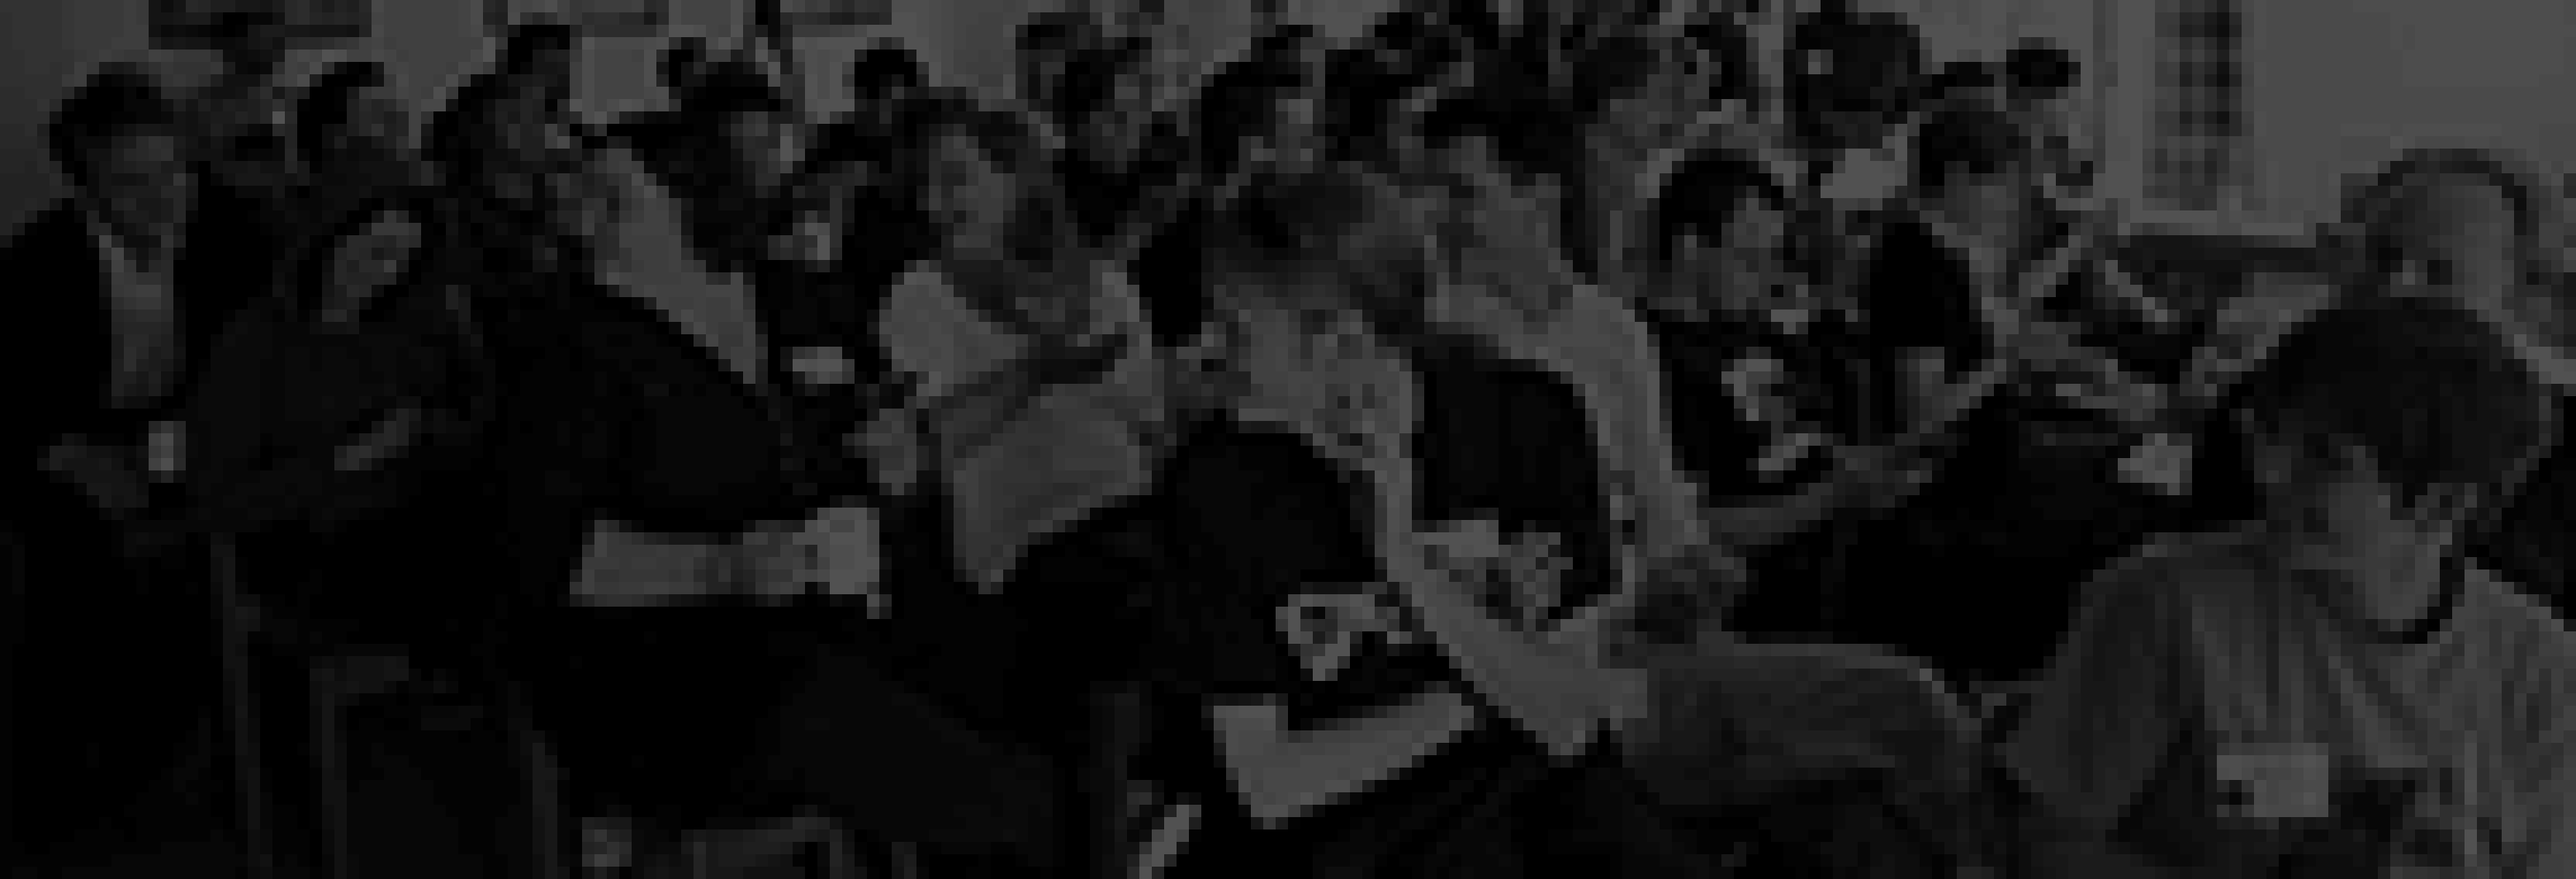
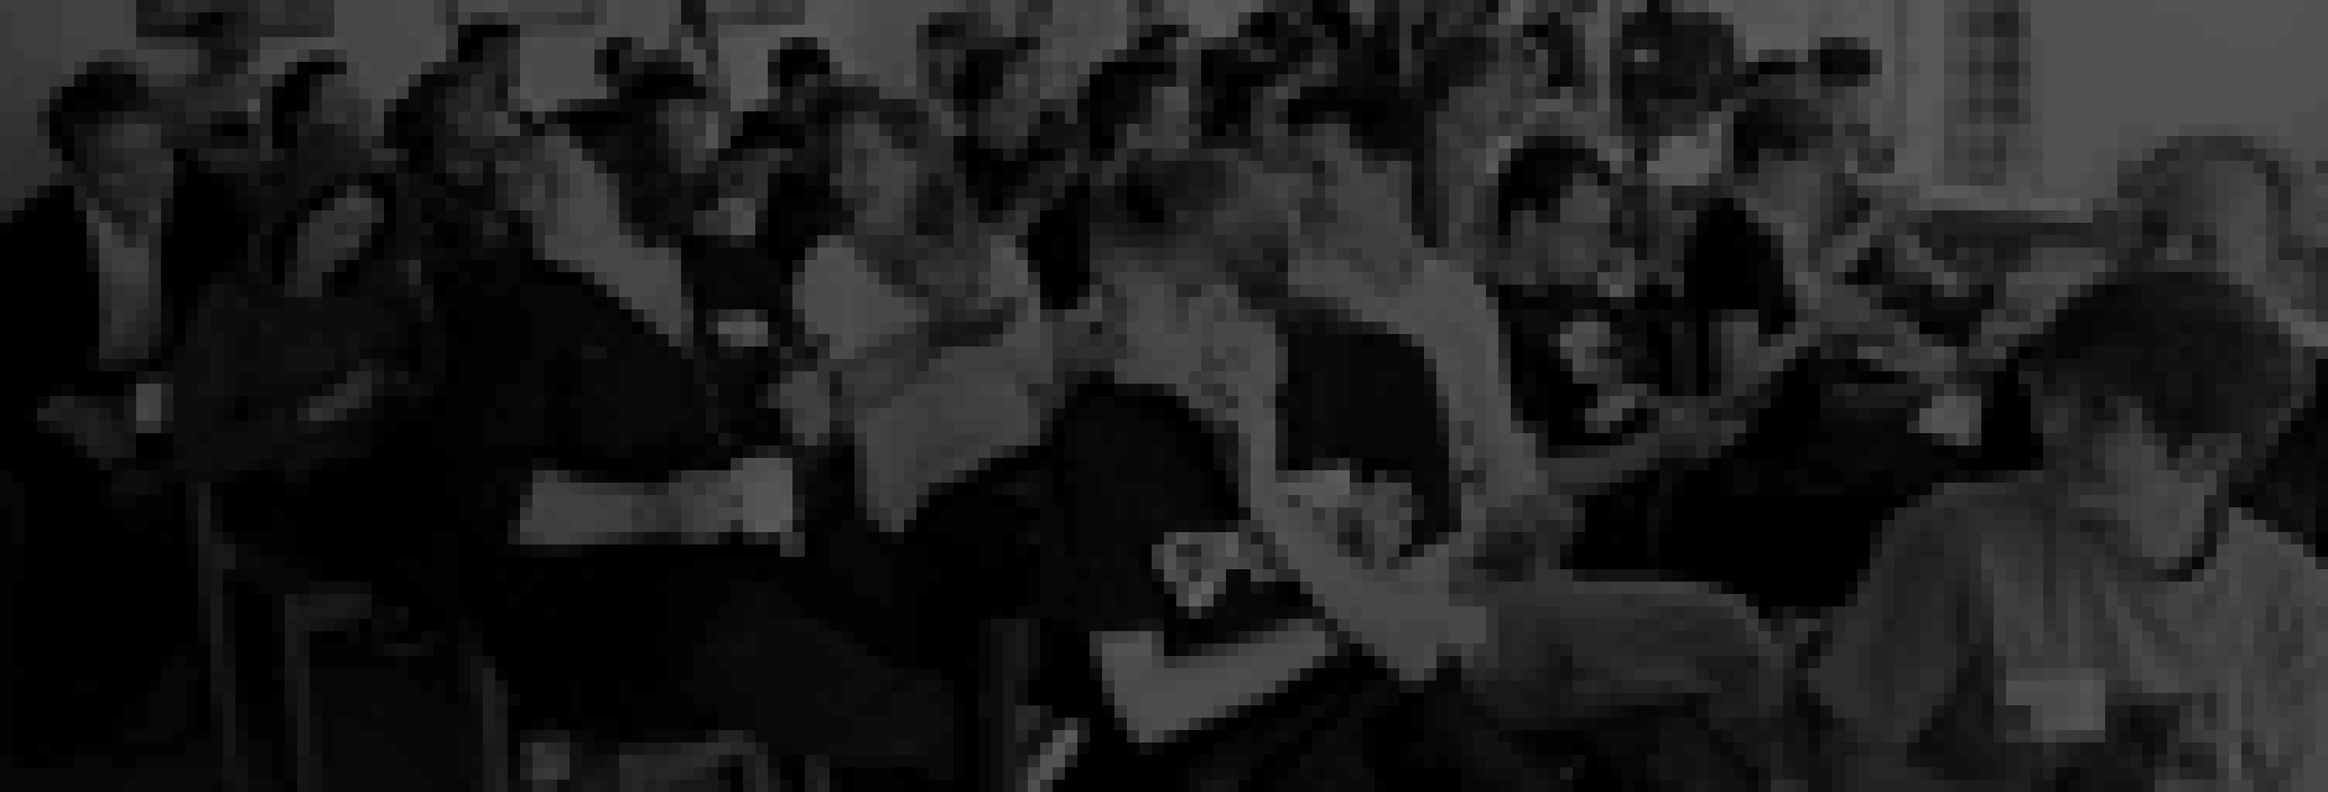
Fancy canvas header image
Re-did the non-JS fallback image while I was at it.

diff --git a/src/site/js/om14.js b/src/site/js/om14.js
@@ -1,0 +1,62 @@
+jQuery(function ($) {
+	"use strict";
+
+	var $header = $("#header");
+
+	// Inspired by <http://stackoverflow.com/a/19129822/417040>, Ken Fyrstenberg Nilsen, Abdias Software, CC3.0-attribute
+	var om14pixel = function ($container, src, px) {
+		// Create a canvas.
+		var $canvas = $("<canvas>");
+		var canvas = $canvas.get(0);
+		var ctx = canvas.getContext("2d"), img = new Image(), loaded = false;
+		// Width and height of the original JPEG.
+		var imgW = 0, imgH = 0;
+		var drawCanvas = function () {
+			if (!loaded) {
+				// Do nothing if the image is not available yet. (Can happen if resizing before loading is complete.)
+				return;
+			}
+			// The width and height of the container.
+			var contW = $container.innerWidth(), contH = $container.innerHeight();
+			// How large of an area (px) does the _small_ image need to cover?
+			var coverW = Math.ceil(contW / px), coverH = Math.ceil(contH / px);
+			// By what factor to shrink the original image to let it cover the area.
+			var ratio = imgW / coverW;
+			// Check whether that ratio is too much to cover the height as well, and adjust, if needed.
+			if (imgH / ratio < coverH) {
+				ratio = imgH / coverH;
+			}
+			// Final width and height of the small image: at least as large as "cover", but maintaining aspect ratio.
+			var smallW = imgW / ratio, smallH = imgH / ratio;
+			// And now if we stretch it out again to make every pixel "px" pixels large, how large is it then?
+			var stretchedW = smallW * px, stretchedH = smallH * px;
+			// Set the correct size of the canvas. This will empty it and reset all of its properties.
+			canvas.width = contW; canvas.height = contH;
+			// Make sure we don’t smooth the image when scaling it up. We want a pixel effect, after all.
+			ctx.mozImageSmoothingEnabled = false;
+			ctx.webkitImageSmoothingEnabled = false;
+			ctx.imageSmoothingEnabled = false;
+			// Draw the small image on the canvas.
+			ctx.drawImage(img, 0, 0, smallW, smallH);
+			// Resize it to "px" times its size, center it in the container.
+			ctx.drawImage(canvas, 0, 0, smallW, smallH, (contW - stretchedW) / 2, (contH - stretchedH) / 2, stretchedW, stretchedH);
+		};
+		// If the window resizes, we have to redraw.
+		$(window).resize(drawCanvas);
+		// As soon as the image has loaded, draw it on the canvas.
+		img.onload = function () {
+			loaded = true;
+			imgW = img.width; imgH = img.height;
+			drawCanvas();
+		};
+		// Set the URL.
+		img.src = src;
+		// Inject the canvas.
+		$container.prepend($canvas);
+	};
+
+	// If we have a header image and canvas support, do the fancy pixelation stuff. Else, the fallback CSS applies.
+	if ($header.length && Modernizr.canvas) {
+		om14pixel($header, "/img/header.jpg", 10);
+	}
+});

diff --git a/src/site/scss/om14.scss b/src/site/scss/om14.scss
@@ -61,7 +61,7 @@ nav {
 }
 
 #header {
-	height: 500px;
+	height: 400px;
 	background: {
 		color: #000;
 		position: 50% 50%;
@@ -72,6 +72,14 @@ nav {
 			image: url("/img/header-fallback.jpg");
 			size: cover;
 		}
+	}
+	canvas {
+		image-rendering: optimizeSpeed;
+		image-rendering: -moz-crisp-edges;
+		image-rendering: -webkit-optimize-contrast;
+		image-rendering: -o-crisp-edges;
+		image-rendering: crisp-edges;
+		-ms-interpolation-mode: nearest-neighbor;
 	}
 }
 

diff --git a/gulpfile.js b/gulpfile.js
@@ -19,7 +19,7 @@ var opts = {
   , scss:     "src/site/scss/om14.scss"
   , allSCSS:  "src/site/scss/**"
   , headJS:   "src/site/js/*modernizr*"
-  , footJS:   "src/site/js/*jquery*"
+  , footJS:   "src/site/js/!(*modernizr*)"
   , allJS:    "src/site/js/**"
   , imgSrc:   "src/site/img/**"
   , imgDest:  "htdocs/img"
